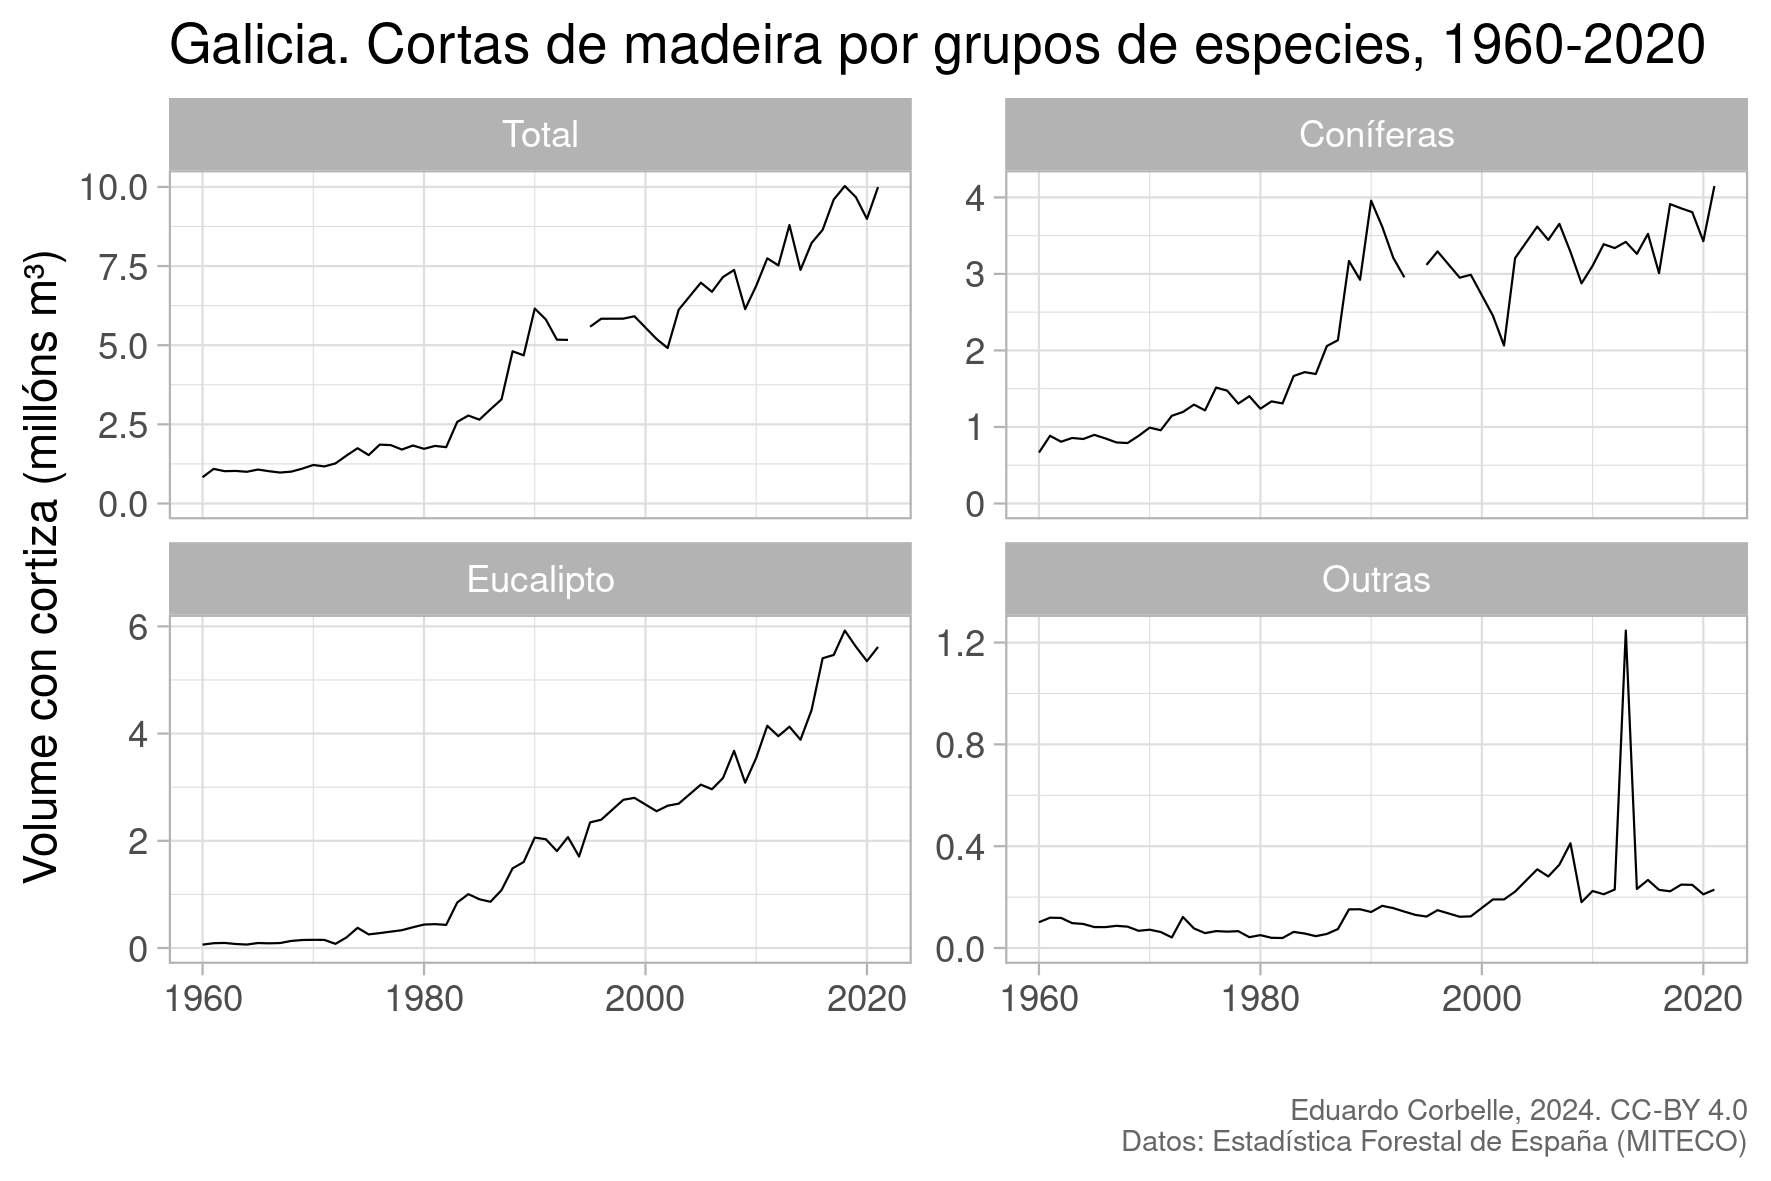
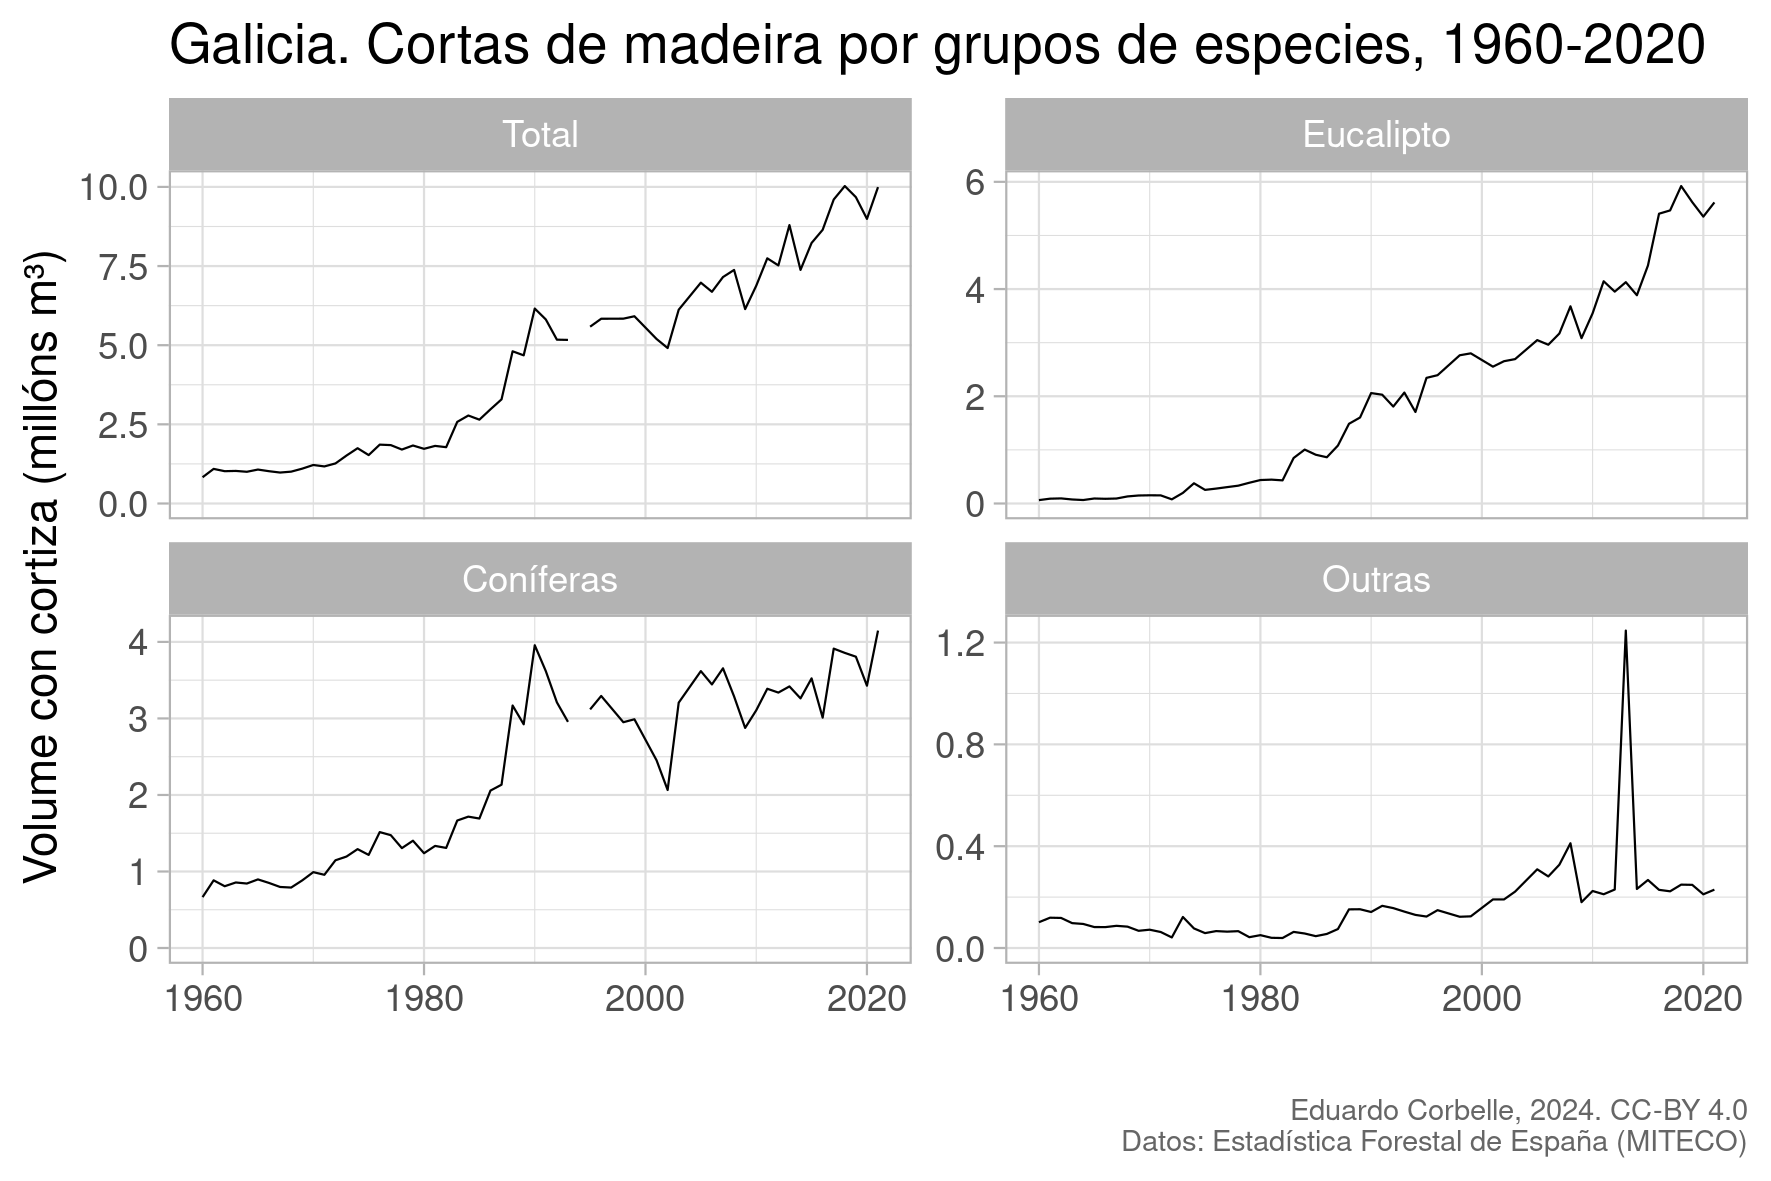
Engade grafico por provincias

diff --git a/README.md b/README.md
@@ -9,6 +9,12 @@ Datos orixinais:
 
 _______________________________
 
-![Serie histórica](Cortas1.png)
+![Serie histórica para Galicia](Cortas1.png)
+
+_______________________________
+
+![Serie histórica por provincias](Cortas1b.png)
+
+_______________________________
 
 ![Mapa municipal](Cortas2.png)
